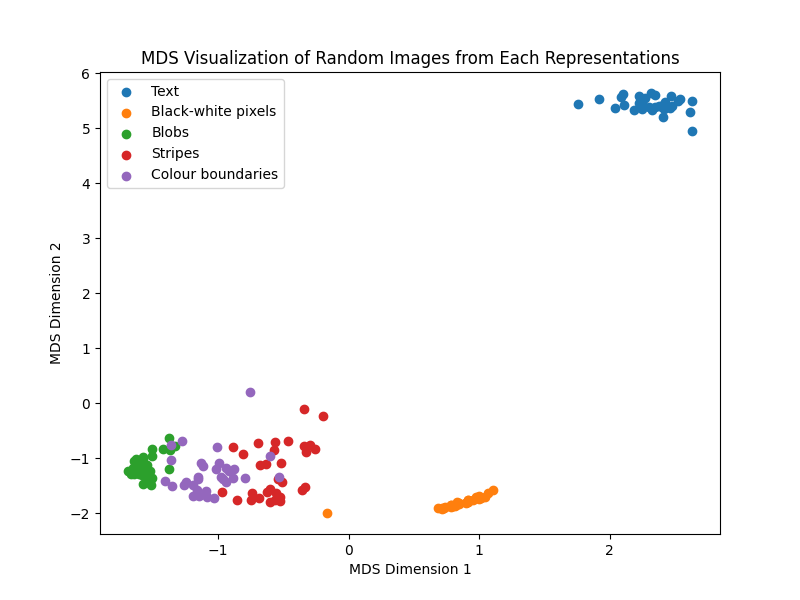
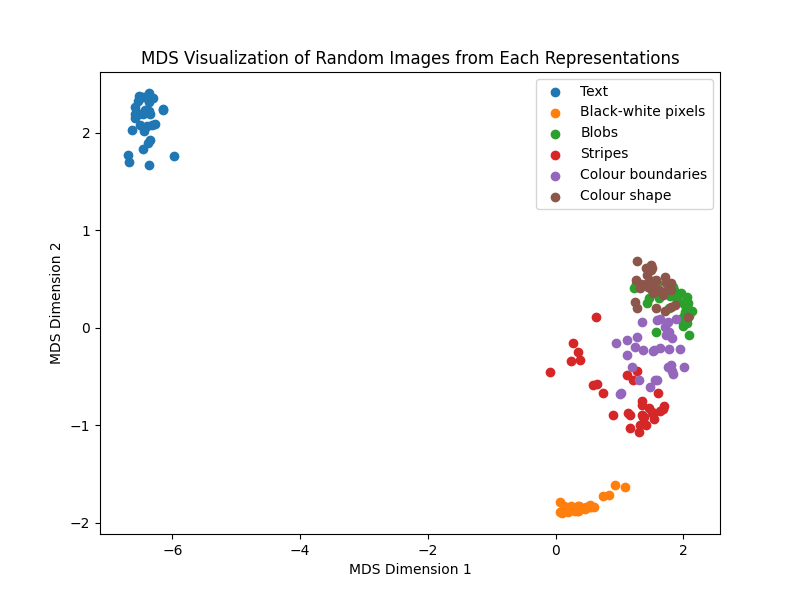
Add colourShape strategy

diff --git a/main.py b/main.py
@@ -459,11 +459,11 @@ class ColourPoint(Blob):
 
         if not self.colour_fixed:
             for i in range(len(self.colour)):
-                step = int(255 * temp * self.tempAdjust * 2 * (random.random()-0.5))
+                step = int(max(1, 255 * temp * self.tempAdjust) * 2 * (random.random()-0.5))
                 self.colour[i] = min(max(0,self.colour[i] + step), 255)
 
 class ColourBlobs(MoveBlobsStrategy):
-    def __init__(self, sizeX, sizeY, blobCount=5, pallet=None):
+    def __init__(self, sizeX, sizeY, blobCount=5, pallet=None, blobPerColour=1):
         super().__init__(sizeX, sizeY, 0, black, recenter=False)
         
         self.representation = []
@@ -471,7 +471,8 @@ class ColourBlobs(MoveBlobsStrategy):
 
         if pallet:
             for colour in pallet:
-                self.representation.append(ColourPoint(self.sizeX, self.sizeY, colour=colour, colour_fixed=True))
+                for b in range(blobPerColour):
+                    self.representation.append(ColourPoint(self.sizeX, self.sizeY, colour=colour, colour_fixed=True))
         elif blobCount:
             for i in range(blobCount):
                 self.representation.append(ColourPoint(self.sizeX, self.sizeY))
@@ -507,15 +508,20 @@ class ColourBlobs(MoveBlobsStrategy):
 
 
 class ColourInsideMask(ColourBlobs):
-    def __init__(self, sizeX, sizeY, mask, pallet):
-        super().__init__(sizeX, sizeY, 0, black, recenter=False)
+    def __init__(self, sizeX, sizeY, mask, pallet=None, blobPerColour=1, blobCount=5):
+        super().__init__(sizeX, sizeY, 0, black)
         self.mask = mask
         
         self.representation = []
         self.best_representation = []
 
-        for colour in pallet:
-            self.representation.append(ColourPoint(self.sizeX, self.sizeY, colour=colour))
+        if pallet:
+            for colour in pallet:
+                for b in range(blobPerColour):
+                    self.representation.append(ColourPoint(self.sizeX, self.sizeY, colour=colour, colour_fixed=True))
+        elif blobCount:
+            for i in range(blobCount):
+                self.representation.append(ColourPoint(self.sizeX, self.sizeY))
 
     def render_image(self):
         colours = super().image_array()
@@ -527,6 +533,34 @@ class ColourInsideMask(ColourBlobs):
 
         return img
 
+class ColourShapeSimultaneous(MutationStrategy):
+    def __init__(self, sizeX, sizeY, colourBlobCount=5, shapeBlobCount=5, pallet=None):
+        self.shape = MoveBlobsStrategy(sizeX, sizeY, shapeBlobCount, white, recenter=True)
+        self.colour = ColourBlobs(sizeX, sizeY, blobCount=colourBlobCount, pallet=pallet)
+
+        self.representation = [self.shape.representation, self.colour.representation]
+
+    def mutate_image(self, temp):
+        self.shape.representation = self.representation[0]
+        self.colour.representation = self.representation[1]
+
+        self.shape.mutate_image(temp)
+        self.colour.mutate_image(temp)
+
+        self.representation = [self.shape.representation, self.colour.representation]
+
+    def render_image(self):
+        self.shape.representation = self.representation[0]
+        self.colour.representation = self.representation[1]
+
+        colours = self.colour.image_array()
+        mask = self.shape.as_mask()
+
+        img = np.where(mask[..., None] == 1, colours, black).astype(np.uint8)
+        
+        img = Image.fromarray(img)
+
+        return img
 
 # Local search methods
 class LocalSearchMethod():
@@ -622,7 +656,7 @@ class SimulatedAnnealing(LocalSearchMethod):
                 # optimum step
                 random_prob = 1
             
-            if random.random() < random_prob or no_change_count > MAX_NO_CHANGE :
+            if random.random() < random_prob or (MAX_NO_CHANGE and no_change_count > MAX_NO_CHANGE):
                 # Take step
                 self.score = score
                 no_change_count = 0
@@ -814,7 +848,7 @@ def plot_annealing_over_parameter(name, mutationStrategiesMap, parameters, itera
 
     plt.savefig(f"plots/{name.replace(' ', '_')}--annealing.png")
 
-def race(name, strategies, strategyNames, prompt=None, iterations=500):
+def race(name, strategies, strategyNames, prompt=None, alpha=0.99, iterations=500):
 
     scoreSystem = EmbeddingsScoring("clip-ViT-B-32")
 
@@ -826,7 +860,7 @@ def race(name, strategies, strategyNames, prompt=None, iterations=500):
 
         scoreSystem.set_goal_text(prompt)
         localSearch = SimulatedAnnealing(strategy, scoreSystem)
-        localSearch.search(alpha=0.99, max_iterations=iterations)
+        localSearch.search(alpha=alpha, max_iterations=iterations)
         localSearch.save_history(strategyNames[i], f"race/{name}-{prompt}")
 
         plt.plot(localSearch.best_points_iteration, localSearch.best_points_score, label=strategyNames[i])
@@ -888,87 +922,113 @@ if __name__ == '__main__':
     if command == "anneal":
         # Compute similarities
 
-        options = ["alternate", "increasing-blob", "coloured-blob", "blob", "pixel", "stripes"]
+ 
+        prompt = sys.argv[3]
+        imageDir = prompt
 
-        if sys.argv[2] in options:
-            prompt = sys.argv[3]
-            imageDir = prompt
+        # Path
+        path = os.path.join("images", imageDir)
+        
+        # Create the directory
+        os.makedirs(path, exist_ok=True)
+        
+        scoreSystem = EmbeddingsScoring("clip-ViT-B-32")
+        scoreSystem.set_goal_text(prompt)
 
-            # Path
-            path = os.path.join("images", imageDir)
+        if sys.argv[2] == "alternate":
+            alternate_blobs_pixels(scoreSystem, imageDir, 10)
+
+        elif sys.argv[2] == "increasing-blob":
+            iterations = int(sys.argv[4])
+            groupSize = int(sys.argv[5])
+            mutationStrategy = MoveBlobsStrategy(128, 128, groupSize, white, recenter=True)                
+            localSearch = SimulatedAnnealing(copy.deepcopy(mutationStrategy), scoreSystem)
+
+            for i in range(iterations):
+                localSearch.search(alpha=1 - 0.1/(i+1), initial_temp=1 - (i/iterations)**2)
+                localSearch.save_history("increasing-blob", f"{imageDir}/")
+                
+                for blob in localSearch.mutationStrategy.representation:
+                    blob.tempAdjust = blob.tempAdjust * 0.75
+
+                for g in range(groupSize):
+                    localSearch.mutationStrategy.add_blob()
+
+        elif sys.argv[2] == "coloured-blob":
+            blobCount = 3
+            if len(sys.argv) > 4:
+                blobCount = int(sys.argv[4])
+            blobsStrategy = MoveBlobsStrategy(128, 128, blobCount, white, recenter=True)
+
+            stripeCount = 5
+            if len(sys.argv) > 5:
+                stripeCount = int(sys.argv[5])
+            stripesStrategy = ColourStripesStrategy(128, 128, stripeCount)
+
+            localSearch = SimulatedAnnealing(blobsStrategy, scoreSystem)
+            localSearch.search(alpha=0.99)
+            localSearch.save_history("coloured-blob--shape", f"{imageDir}/")
+            mask = blobsStrategy.as_mask(localSearch.best_representation)
+
+            localSearch = SimulatedAnnealing(stripesStrategy, scoreSystem)
+            localSearch.search(alpha=0.99)
+            localSearch.save_history("coloured-blob--colour", f"{imageDir}/")
+            pallet = copy.deepcopy(localSearch.best_representation)
             
-            # Create the directory
-            os.makedirs(path, exist_ok=True)
+            colouringStrategy = ColourInsideMask(128, 128, mask, pallet=pallet, blobPerColour=2)
+            localSearch = SimulatedAnnealing(colouringStrategy, scoreSystem)
+            localSearch.search(alpha=0.99)
+            localSearch.save_history("coloured-blob", f"{imageDir}/")
+
+        elif sys.argv[2] == "fixed-colour-blob":
+            stripeCount = 5
+            if len(sys.argv) > 4:
+                stripeCount = int(sys.argv[4])
+            stripesStrategy = ColourStripesStrategy(128, 128, stripeCount)
+
+            localSearch = SimulatedAnnealing(stripesStrategy, scoreSystem)
+            localSearch.search(alpha=0.99)
+            localSearch.save_history("coloured-blob--colour", f"{imageDir}/")
+            pallet = copy.deepcopy(localSearch.best_representation)
             
-            scoreSystem = EmbeddingsScoring("clip-ViT-B-32")
-            scoreSystem.set_goal_text(prompt)
+            blobCount = 5
+            if len(sys.argv) > 5:
+                blobCount = int(sys.argv[5])
+            blobsStrategy = ColourShapeSimultaneous(128, 128, shapeBlobCount=blobCount, pallet=pallet)
 
-            if sys.argv[2] == "alternate":
-                alternate_blobs_pixels(scoreSystem, imageDir, 10)
+            localSearch = SimulatedAnnealing(blobsStrategy, scoreSystem)
+            localSearch.search(alpha=0.99)
+            localSearch.save_history("coloured-blob", f"{imageDir}/")
 
-            elif sys.argv[2] == "increasing-blob":
-                iterations = int(sys.argv[4])
-                groupSize = int(sys.argv[5])
-                mutationStrategy = MoveBlobsStrategy(128, 128, groupSize, white, recenter=True)                
-                localSearch = SimulatedAnnealing(copy.deepcopy(mutationStrategy), scoreSystem)
 
-                for i in range(iterations):
-                    localSearch.search(alpha=1 - 0.1/(i+1), initial_temp=1 - (i/iterations)**2)
-                    localSearch.save_history("increasing-blob", f"{imageDir}/")
-                    
-                    for blob in localSearch.mutationStrategy.representation:
-                        blob.tempAdjust = blob.tempAdjust * 0.75
-
-                    for g in range(groupSize):
-                        localSearch.mutationStrategy.add_blob()
-
-            elif sys.argv[2] == "coloured-blob":
+        else:
+            if sys.argv[2] == "blob":
                 blobCount = 3
                 if len(sys.argv) > 4:
                     blobCount = int(sys.argv[4])
-                blobsStrategy = MoveBlobsStrategy(128, 128, blobCount, white, recenter=True)
+                mutationStrategy = MoveBlobsStrategy(128, 128, blobCount, white, recenter=True)
+            elif sys.argv[2] == "pixel":
+                mutationStrategy = RandomPixelFlipStrategy(128, 128)
+            elif sys.argv[2] == "stripes":
+                stripeCount = 3
+                if len(sys.argv) > 4:
+                    stripeCount = int(sys.argv[4])
 
-                stripeCount = 5
+                mutationStrategy = ColourStripesStrategy(128, 128, stripeCount)
+            elif sys.argv[2] == "colourShape":
+                coloursBlobCount = 5
+                if len(sys.argv) > 4:
+                    coloursBlobCountblobCount = int(sys.argv[4])
+                shapeBlobCount = 5
                 if len(sys.argv) > 5:
-                    stripeCount = int(sys.argv[5])
-                stripesStrategy = ColourStripesStrategy(128, 128, stripeCount)
-
-                localSearch = SimulatedAnnealing(blobsStrategy, scoreSystem)
-                localSearch.search(alpha=0.99)
-                localSearch.save_history("coloured-blob--shape", f"{imageDir}/")
-                mask = blobsStrategy.as_mask(localSearch.best_representation)
-
-                localSearch = SimulatedAnnealing(stripesStrategy, scoreSystem)
-                localSearch.search(alpha=0.99)
-                localSearch.save_history("coloured-blob--colour", f"{imageDir}/")
-                pallet = copy.deepcopy(localSearch.best_representation)
+                    shapeBlobCountblobCount = int(sys.argv[5])
                 
-                colouringStrategy = ColourInsideMask(128, 128, mask, pallet)
-                localSearch = SimulatedAnnealing(colouringStrategy, scoreSystem)
-                localSearch.search(alpha=0.99)
-                localSearch.save_history("coloured-blob", f"{imageDir}/")
+                mutationStrategy = ColourShapeSimultaneous(128, 128, colourBlobCount=coloursBlobCount, shapeBlobCount=shapeBlobCount)
 
-            else:
-                if sys.argv[2] == "blob":
-                    blobCount = 3
-                    if len(sys.argv) > 4:
-                        blobCount = int(sys.argv[4])
-                    mutationStrategy = MoveBlobsStrategy(128, 128, blobCount, white, recenter=True)
-                elif sys.argv[2] == "pixel":
-                    mutationStrategy = RandomPixelFlipStrategy(128, 128)
-                elif sys.argv[2] == "stripes":
-                    stripeCount = 3
-                    if len(sys.argv) > 4:
-                        stripeCount = int(sys.argv[4])
+            localSearch = SimulatedAnnealing(mutationStrategy, scoreSystem)
+            localSearch.search(alpha=0.995)
 
-                    mutationStrategy = ColourStripesStrategy(128, 128, stripeCount)
-
-                localSearch = SimulatedAnnealing(mutationStrategy, scoreSystem)
-                localSearch.search(alpha=0.99)
-
-                localSearch.save_history(sys.argv[2], f"{imageDir}/")
-        else:
-            print(f"anneal options are: {', '.join(options)}")
+            localSearch.save_history(sys.argv[2], f"{imageDir}/")
 
     elif command == "measure_steps":
         scoreSystem = EmbeddingsScoring("clip-ViT-B-32")
@@ -1033,13 +1093,15 @@ if __name__ == '__main__':
                 RandomPixelFlipStrategy(128, 128),
                 MoveBlobsStrategy(128, 128, 4, white, recenter=True),
                 ColourStripesStrategy(128, 128, 4),
-                ColourBlobs(128, 128, 4)
+                ColourBlobs(128, 128, 4),
+                ColourShapeSimultaneous(128, 128),
             ]
             names = [
                 "Black-white pixels",
                 "Blobs",
                 "Stripes",
-                "Colour boundaries"
+                "Colour boundaries",
+                "Colour shape"
             ]
 
         elif strategyOption == "stripes":
@@ -1057,7 +1119,7 @@ if __name__ == '__main__':
         
         elif comparisonOption == "race":
             prompt = sys.argv[4]
-            race(strategyOption, strategies, names, prompt=prompt)
+            race(strategyOption, strategies, names, prompt=prompt, alpha=0.995, iterations=1500)
 
         elif comparisonOption == "anneal_boxplot":
             anneal_boxplot(strategyOption, strategies, names, iterations=500)

diff --git a/README.md b/README.md
@@ -3,10 +3,10 @@ I intend to use simulated annealing to create images that match a text prompt. I
 
 ## Current results
 
-![Optimizing for dragon](https://github.com/SamuelmdLow/simulated-annealing-with-embeddings/blob/main/examples/dragon.gif?raw=true)
+![Optimizing for dragon](https://github.com/SamuelmdLow/simulated-annealing-with-embeddings/blob/main/examples/turtle.gif?raw=true)
 
-"dragon"
+"turtle"
 
-![Optimizing for skull](https://github.com/SamuelmdLow/simulated-annealing-with-embeddings/blob/main/examples/skull.gif?raw=true)
+![Optimizing for skull](https://github.com/SamuelmdLow/simulated-annealing-with-embeddings/blob/main/examples/chicken_bird.gif?raw=true)
 
-"skull"
+"chicken_bird"
